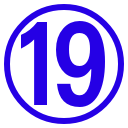
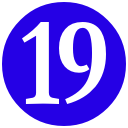
minor

diff --git a/src/templates/blog-post.js b/src/templates/blog-post.js
@@ -37,8 +37,8 @@ export default function BlogPost({ data }) {
         <Outline className='p-3'>
           <div className='d-flex justify-content-between'>
             <header>
-              <h2>{post.frontmatter.artist}</h2>
               <h1>{post.frontmatter.title}</h1>
+              <h2>{post.frontmatter.artist}</h2>
             </header>
             <h2>
               <Link to='/' css='padding: 1rem; margin: -1rem'>
@@ -49,7 +49,7 @@ export default function BlogPost({ data }) {
 
           <Image
             fluid={post.frontmatter.thumbnail.childImageSharp.fluid}
-            className='my-3'
+            className='mb-3 mt-1'
           />
 
           <div dangerouslySetInnerHTML={{ __html: post.html }} />

diff --git a/src/pages/index.js b/src/pages/index.js
@@ -33,7 +33,7 @@ const IndexPage = ({ data }) => {
 
   return (
     <Layout>
-      <SEO title='Graduate Showcase 2020' />
+      <SEO title='UAL CCI — Graduate Showcase' />
 
       <a href='https://www.instagram.com/ual_cci/?hl=en'>
         <Sticker>Instagram</Sticker>
@@ -42,7 +42,7 @@ const IndexPage = ({ data }) => {
         <Sticker>arts.ac.uk</Sticker>
       </a>
 
-      <section>
+      <section className='mt-5'>
         {orderedArray.map((post) => (
           <StyledLink key={post.id} to={post.frontmatter.slug} className='mr-2'>
             <h1>

diff --git a/src/components/header.js b/src/components/header.js
@@ -1,11 +1,13 @@
-import React from "react";
+import React from 'react';
+
+// ⑲
 
 const Header = () => (
-  <header className="pb-5 mb-5">
+  <header className='mb-2 mb-md-3'>
     <h2>
-      UAL Creative Computing Institute
+      MSc Creative Computing Graduates ⓳
       <br />
-      MSc Creative Computing Graduates ⑲
+      UAL Creative Computing Institute
     </h2>
   </header>
 );

diff --git a/src/layouts/index.js b/src/layouts/index.js
@@ -29,7 +29,6 @@ const GlobalStyle = createGlobalStyle`
       text-rendering: geometricPrecision;
       -webkit-font-smoothing: antialiased;
       -moz-osx-font-smoothing: grayscale;
-      font-feature-settings: 'ss01';
   }
 
   a {
